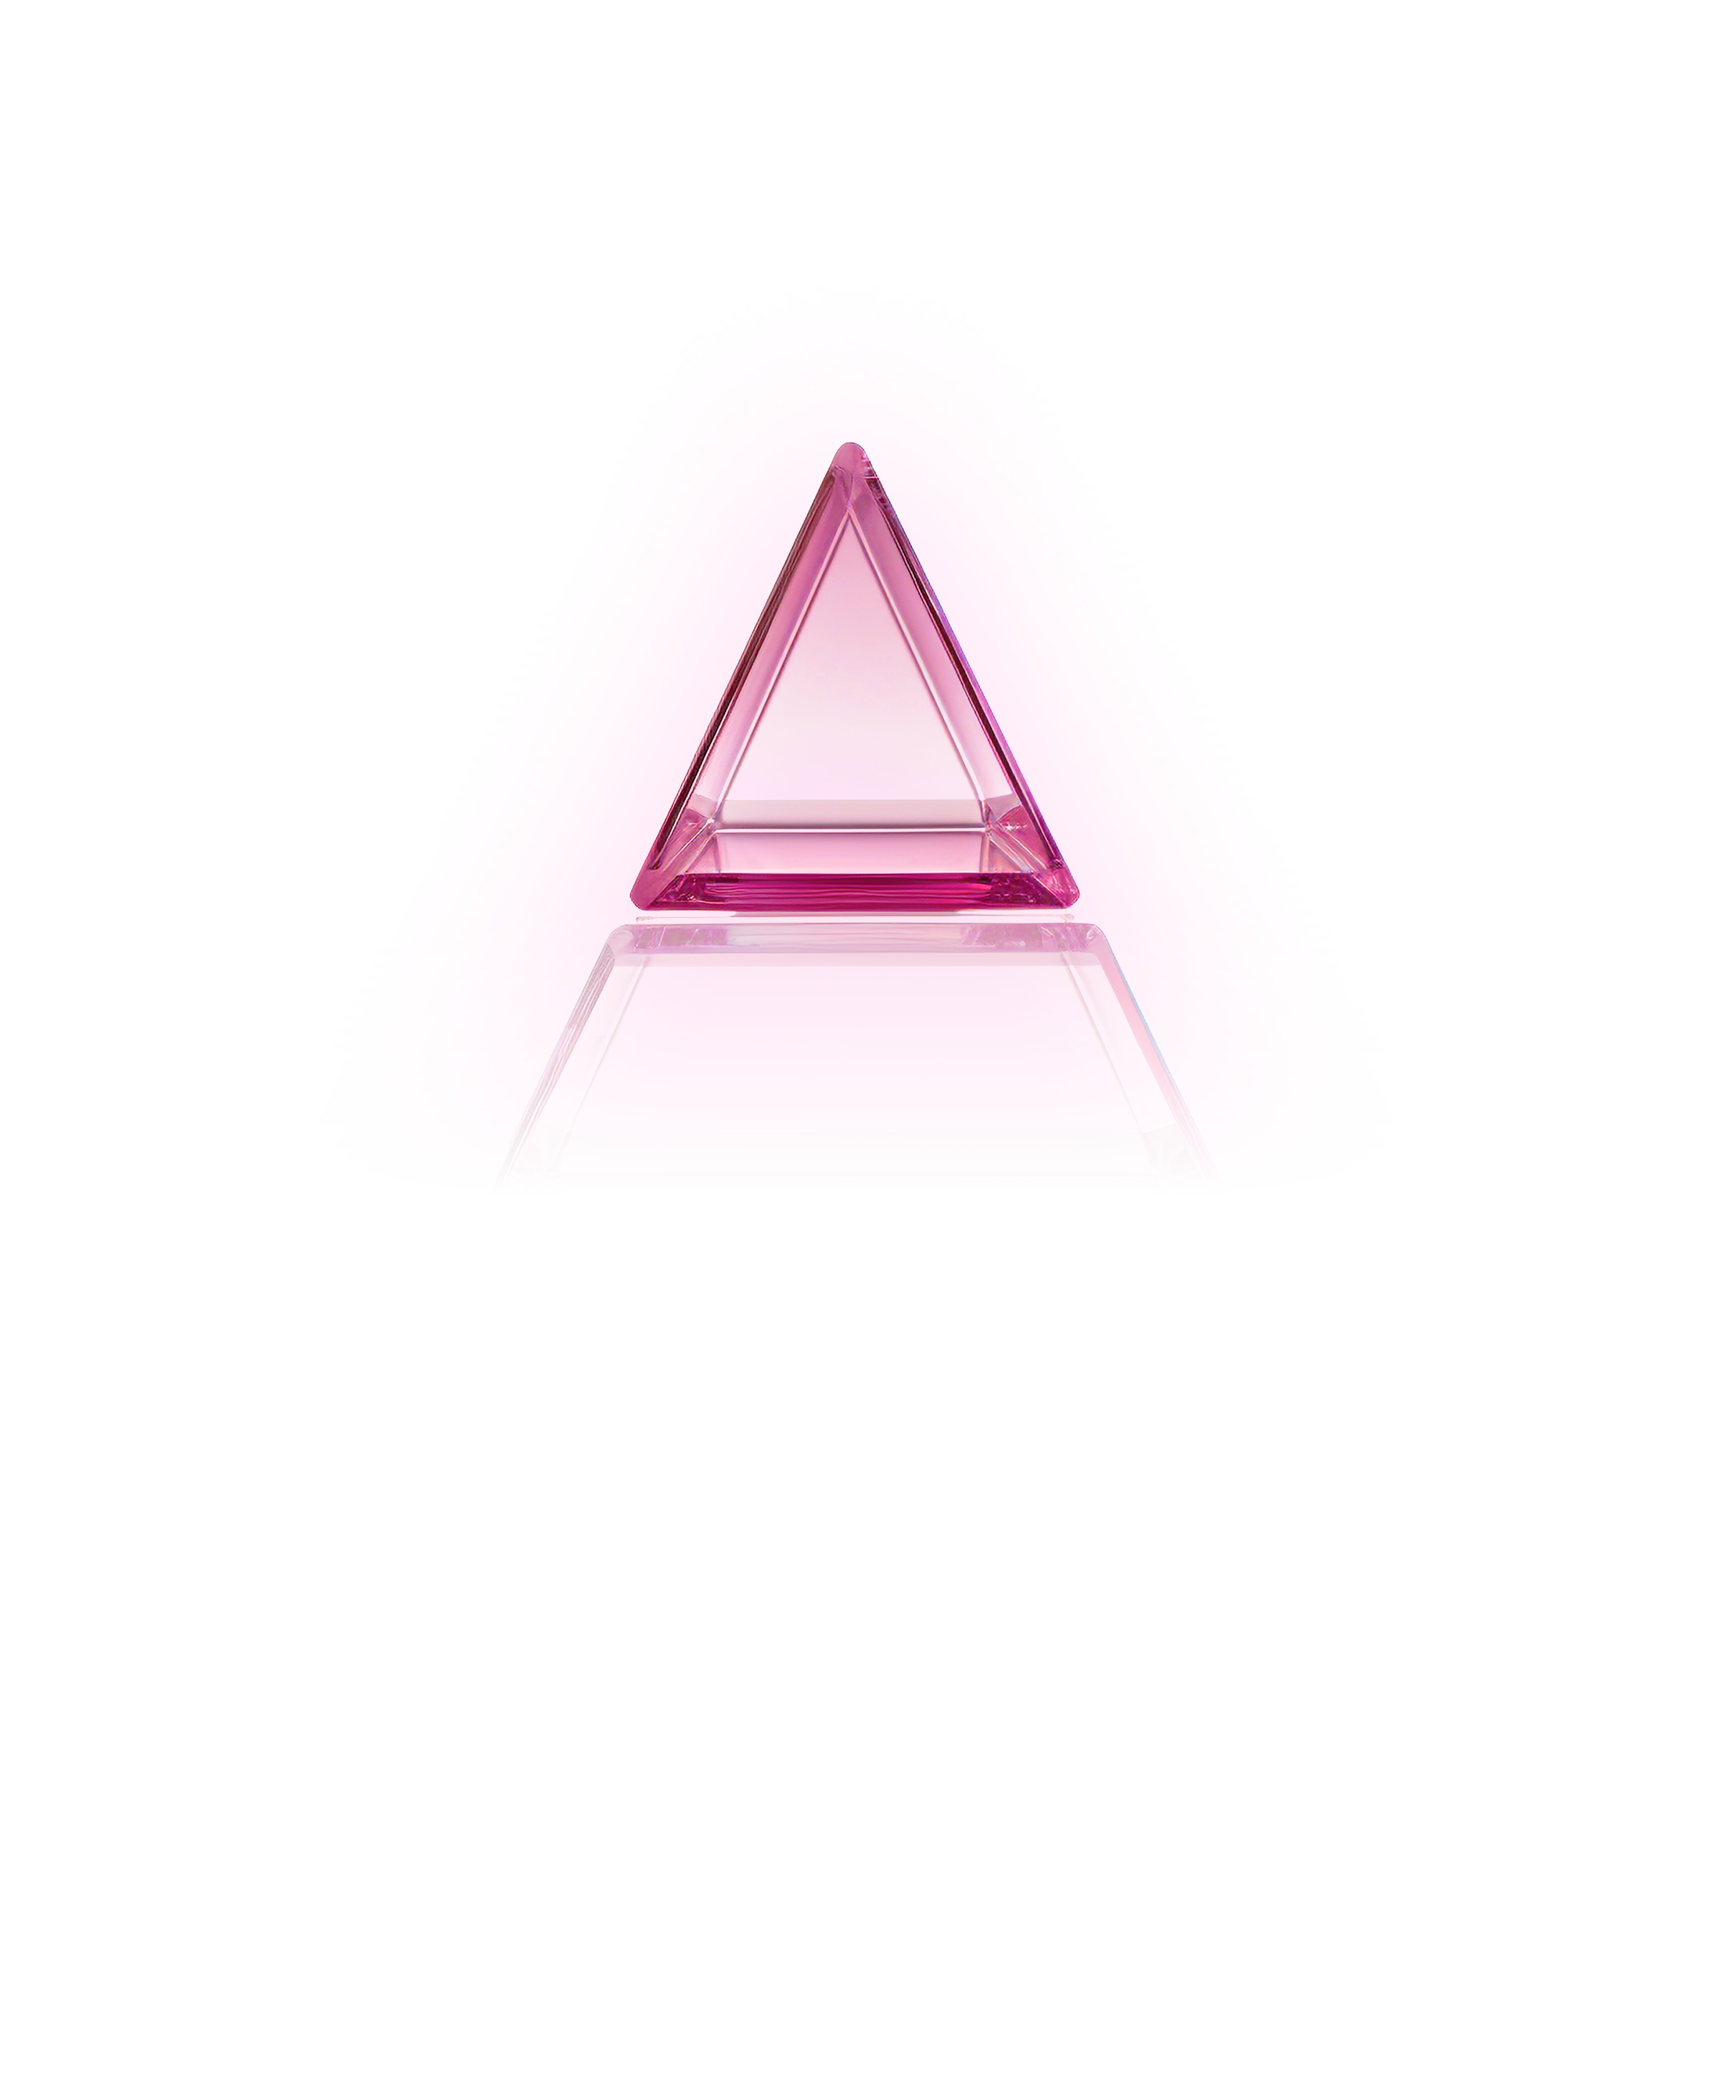
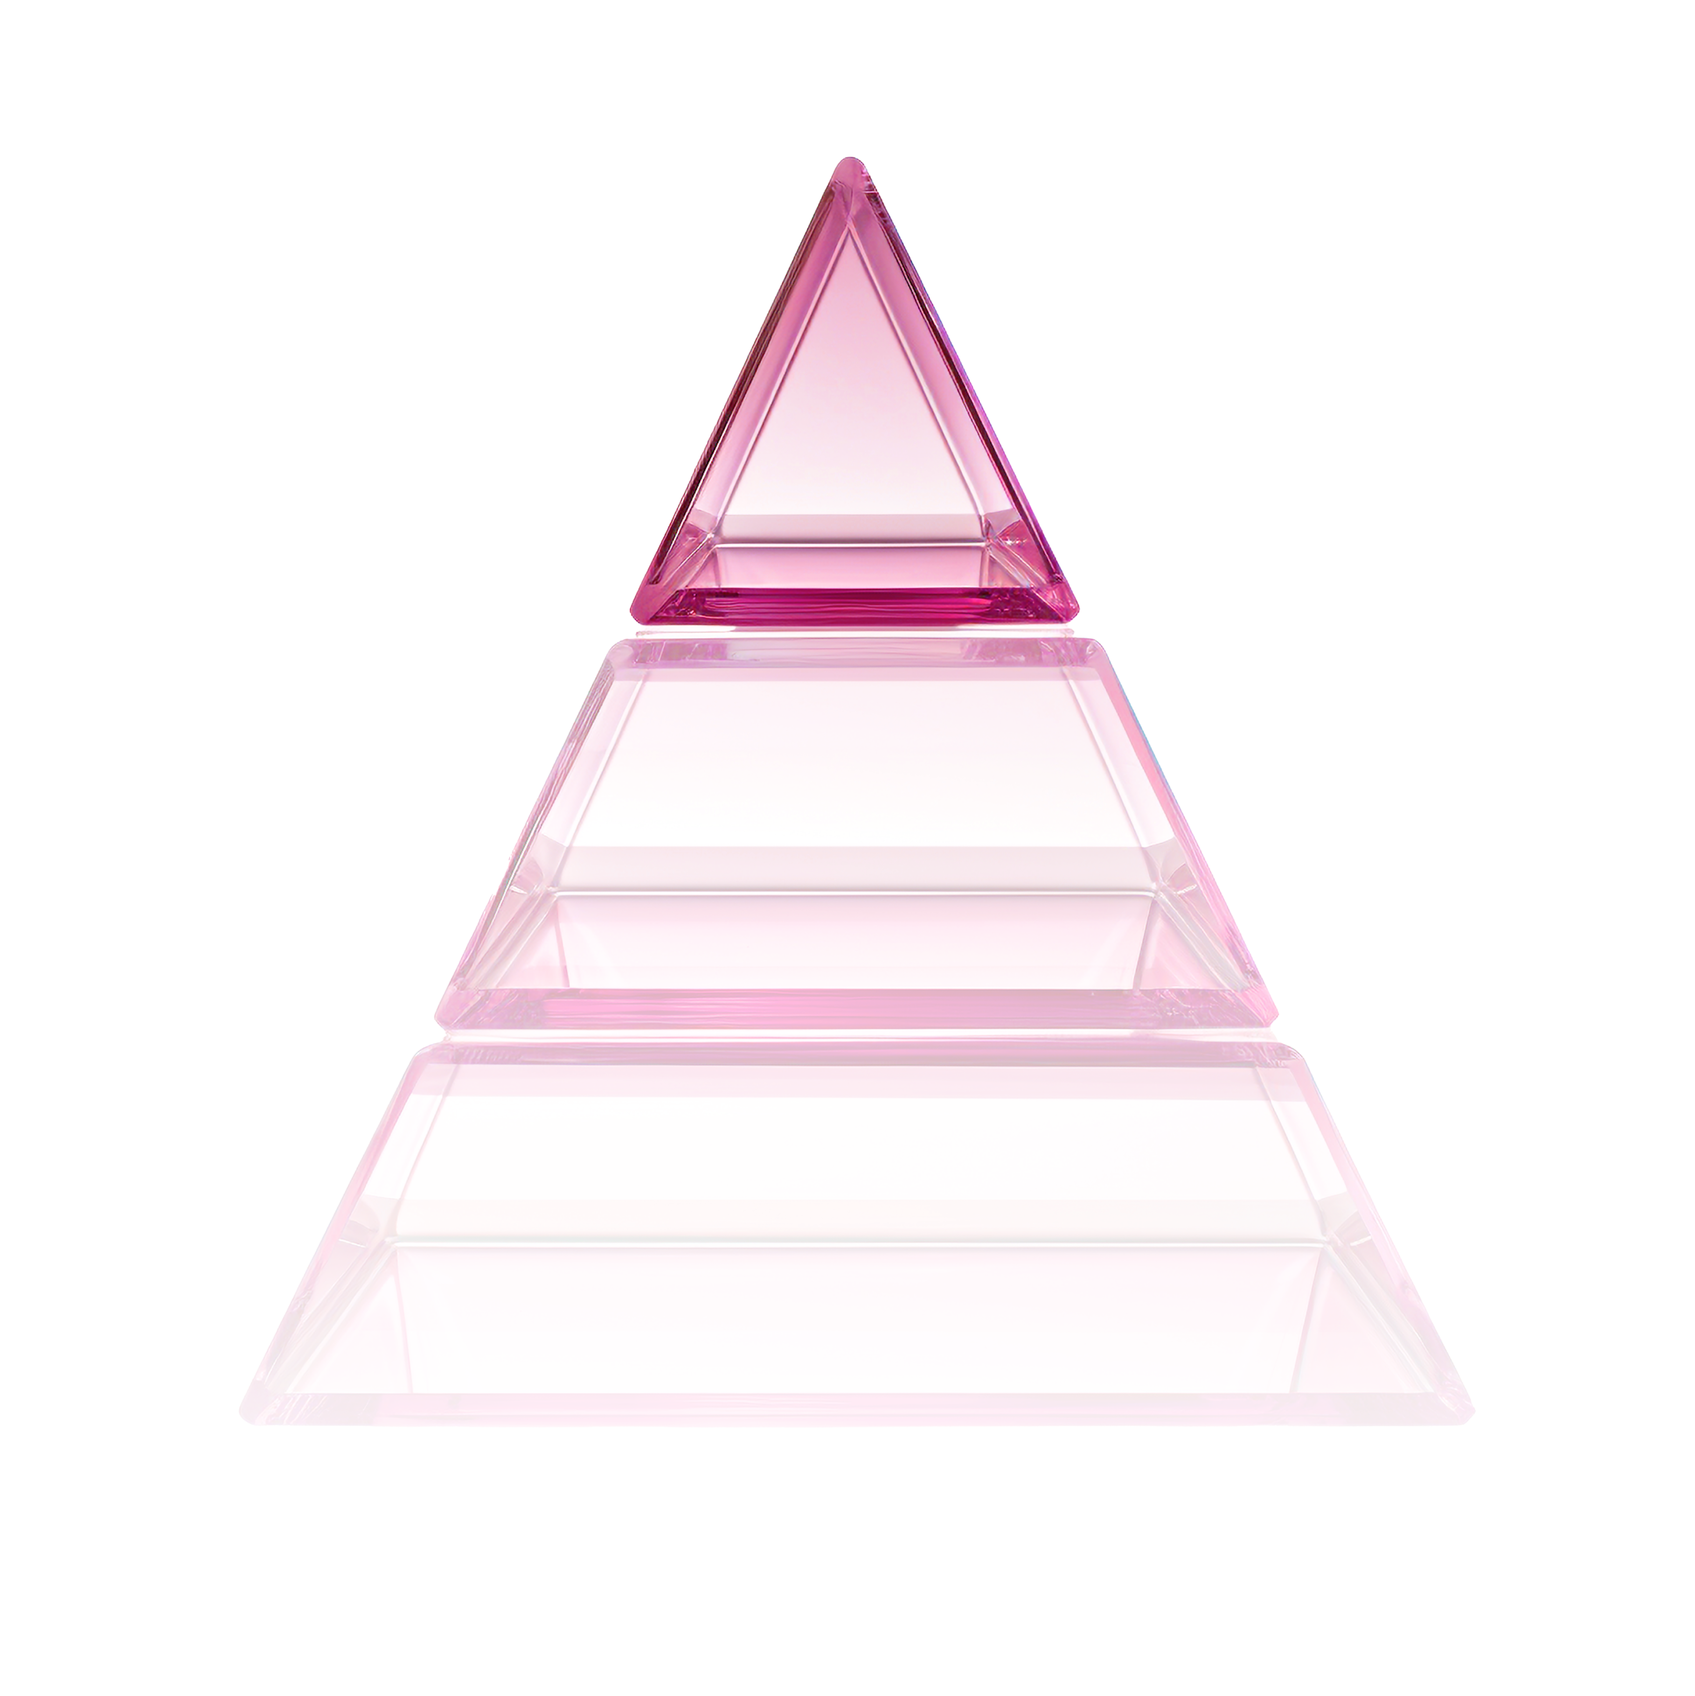
LG way 이미지, css 수정

diff --git a/src/assets/css/sub_bizInfo.scss b/src/assets/css/sub_bizInfo.scss
@@ -582,7 +582,7 @@
                 justify-content: space-between;
                 align-items: center;
                 @media #{$phone} {
-                    display: block;
+                    flex-direction: column;
                 }
                 .button__wrap {
                     width: fit-content;
@@ -595,8 +595,8 @@
                     bottom: calc(140 / 16 * 1rem);
                     transform: translateX(-50%);
                     z-index: 50;
-                    @media #{$phone} {
-                        bottom: 0;
+                    button {
+                        cursor: pointer;
                     }
                     button {
                         cursor: pointer;
@@ -638,7 +638,7 @@
             }
             &--item {
                 padding: calc(5 / 16 * 1rem) calc(19 / 16 * 1rem);
-                border: calc(1 / 16 * 1rem) solid var(--colorGL-all-black100);
+                border: calc(1 / 16 * 1rem) solid var(--colorGL-all-black100);               
                 border-radius: calc(50 / 16 * 1rem);
                 &:not(.is-active) {
                     font-size: 0;
@@ -711,9 +711,6 @@
                             }
                         }
                     }
-                    .bizinfo-LG-way__section {
-                        padding-bottom: calc(var(--spacing-mode1-vertical6-x-l-nudge) / 16 * 1rem);
-                    }
                 }
                 &:not(:first-child) {
                     .bizinfo-LG-way {
@@ -722,12 +719,15 @@
                             position: absolute;
                             top: 0;
                             bottom: 0;
-                            right: 15rem;
-                            width: 50%;
-                            height: 100%;
+                            right: 0;
                             @media #{$phone} {
                                 position: static;
                                 width: 100%;
+                            }
+                            img {
+                                width: 100%;
+                                height: 100%;
+                                object-fit: cover;
                             }
                         }
                         &__textarea {

diff --git a/src/page/bizInfo_LGway.html b/src/page/bizInfo_LGway.html
@@ -66,7 +66,7 @@
                                         <i class="btn-glide__icon"></i>
                                     </button>
                                 </div>
-                                <div class="bizinfo-LG-way__section__img" data-swiper-parallax-y="0%">
+                                <div class="bizinfo-LG-way__section__img" data-swiper-parallax-y="40%">
                                     <img src="../assets/image/sub/bg_lgway_sec02.png" alt="">
                                 </div>
                             </div>
@@ -184,7 +184,7 @@
                         waySwiper.slides[(waySwiper.activeIndex)].classList.add("is-active");
                         if(waySwiper.activeIndex > 0) {
                             parallaxPagination.classList.add("is-active");
-                            waySwiper.slides[(waySwiper.activeIndex)].querySelector(".bizinfo-LG-way__section__img").style.bottom = `-${(waySwiper.activeIndex + 1)  * 20}%`;
+                            // waySwiper.slides[(waySwiper.activeIndex)].querySelector(".bizinfo-LG-way__section__img").style.bottom = `-${(waySwiper.activeIndex + 1)  * 20}%`;
                             parallaxPaginationItem[waySwiper.activeIndex - 1].classList.add("is-active");
                         } else {
                             parallaxPagination.classList.remove("is-active");
@@ -213,7 +213,6 @@
                 waySwiper.slideNext();
             });
         })
-
     </script>
 </body>
 </html>
